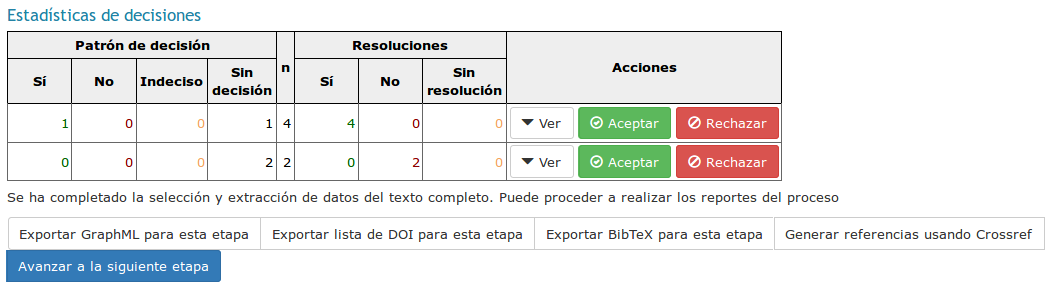
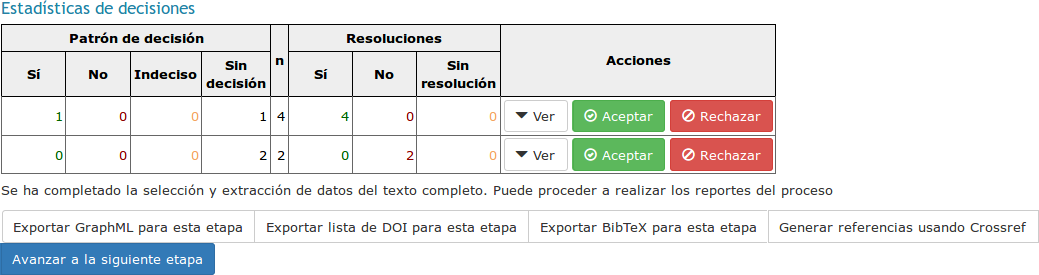
Added README for manual. Some images fixed

diff --git a/docs/manual/README_manual.md b/docs/manual/README_manual.md
@@ -1,0 +1,3 @@
+# README Manual
+
+The user manual is provided on English and Spanish as an HTML file, for maximum portability.
